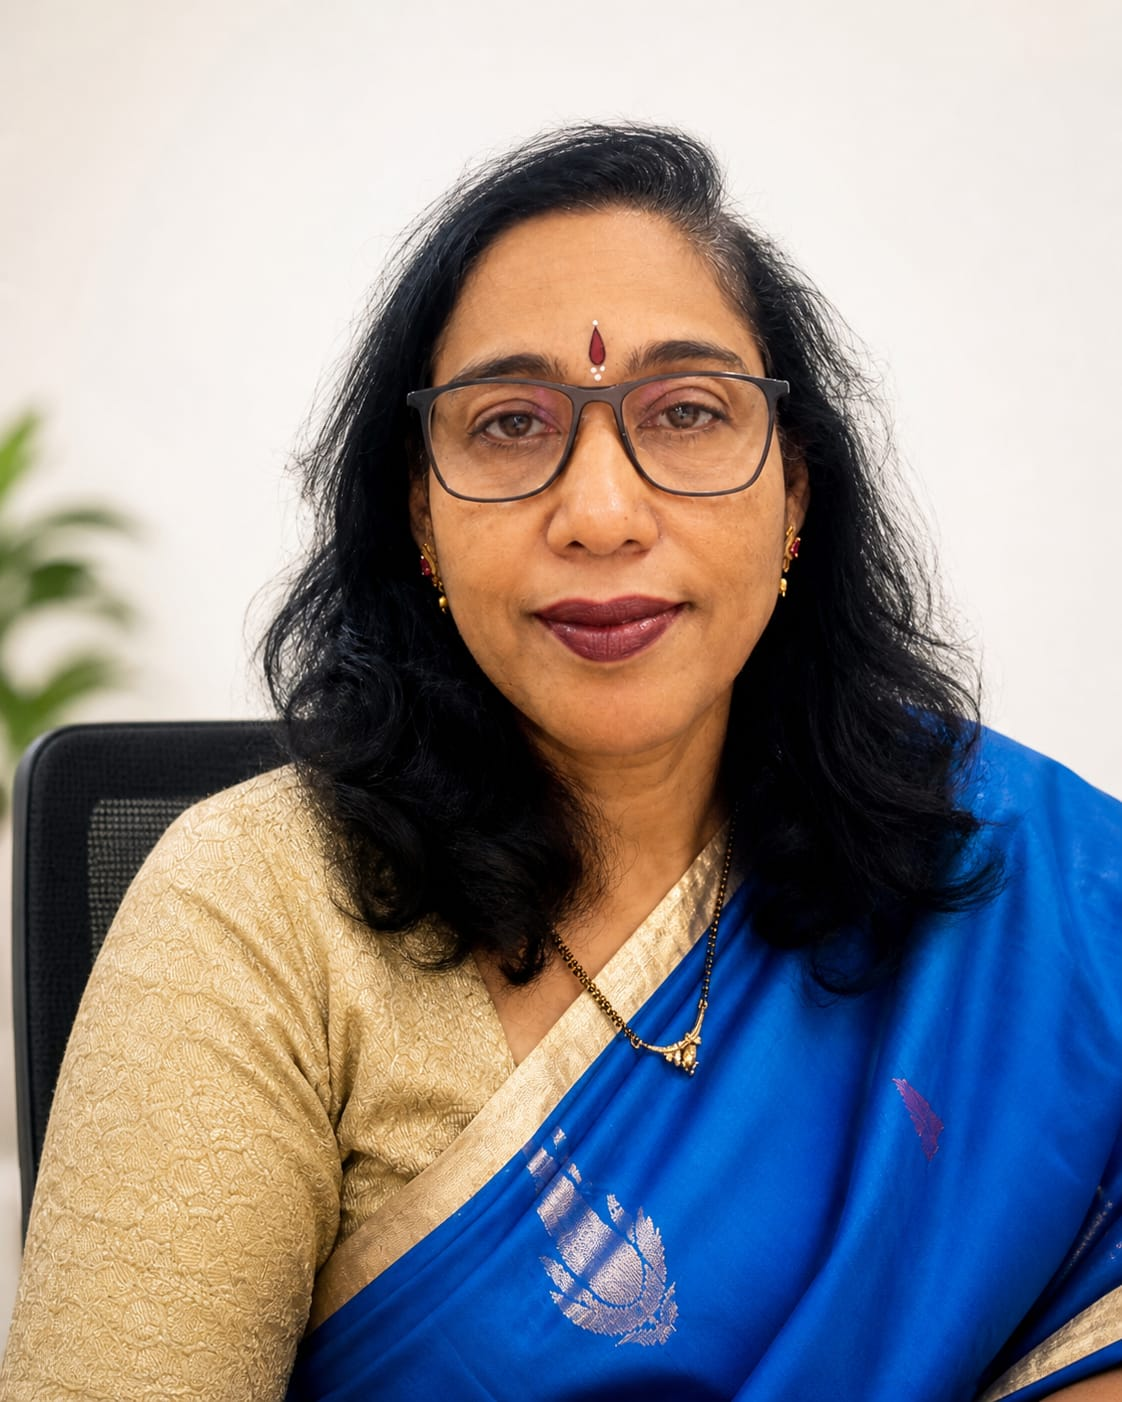
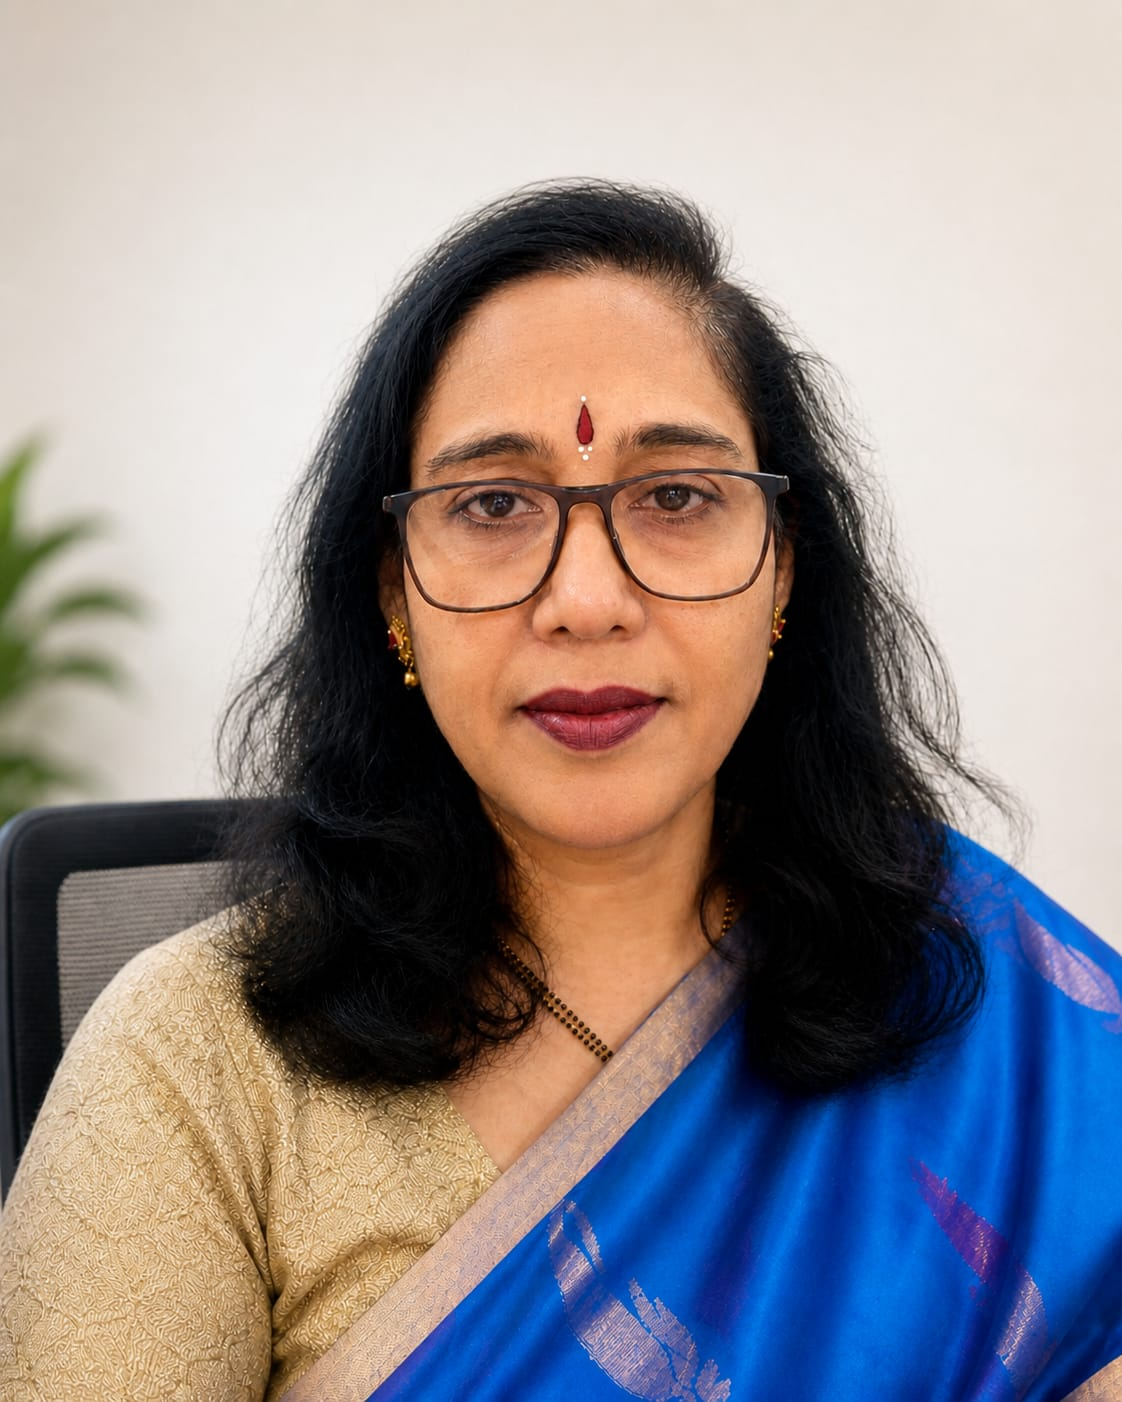
feat(leadership): activate principal entry and update chairman photo
- Replace chairman photo (jpg -> png) on slider and detail page
- Use new principal photo and uncomment principal block on /leadership
- Reorder homepage: PartnersSection moved above AboutSection

diff --git a/app/leadership/page.tsx b/app/leadership/page.tsx
@@ -1,3 +1,4 @@
+
 'use client';
 
 import Link from 'next/link';
@@ -22,7 +23,7 @@ const leaders: Leader[] = [
     slug: 'chairman',
     name: 'Chinnabathini Sagar',
     role: "Chairman's Message",
-    photo: '/images/people/chairman.jpg',
+    photo: '/images/people/chairman.png',
     greeting: 'Dear Parents and Students,',
     paragraphs: [
       'It gives me immense pleasure, joy, and pride to welcome you to Indo Global School — an institution born from a passionate dream to provide children with an education that truly empowers them to Learn, Lead, and Shine.',
@@ -43,10 +44,10 @@ const leaders: Leader[] = [
     greeting: 'Welcome to Indo Global School.',
     paragraphs: [
       'It is an honour to lead a school founded on this conviction: every child deserves a place to Learn, Lead, and Shine.',
-      'As we lay the first stones of Indo Global School, I am moved by the passion, dedication, and faith our founding team brings each day. A school is only as strong as the relationships within it — between teachers and students, between parents and the school, and among the children themselves.',
-      'At Indo Global School, learning reaches far beyond the page. We integrate global best practices with the strength of our roots. Our students study the world while remaining grounded in the values, languages, and traditions that make our community what it is.',
-      'Our goal is to equip students to navigate both textbooks and the real world with confidence, kindness, and the courage to drive positive change. Every morning when children walk through our gates, we are reminded of the responsibility we carry — and the privilege it is.',
-      'To our parents: thank you for the trust you have placed in us. To our students: this is your home to grow, to question, to discover, and to become the best version of yourselves.',
+      'As we lay the first stones of Indo Global School, I am moved by the passion, dedication, and faith our founding team brings each day.',
+      'At Indo Global School, learning reaches far beyond the page. We integrate global best practices with the strength of our roots.',
+      'Our goal is to equip students to navigate both textbooks and the real world with confidence, kindness, and the courage to drive positive change.',
+      'To our parents: thank you for the trust you have placed in us. To our students: this is your home to grow.',
       'Our journey has just begun, and together, we look forward to a future of growth, achievement, and excellence.',
     ],
     signoff: 'Warm regards,',
@@ -97,7 +98,7 @@ export default function LeadershipPage() {
               <span className="block italic text-primary">Leadership.</span>
             </h1>
             <p className="mt-6 md:mt-8 text-[15px] md:text-[17px] text-muted-foreground max-w-[40rem] leading-[1.75]">
-              Full messages from our Chairman and Principal — on the founding belief
+              The full message from our Chairman — on the founding belief
               that shapes Indo Global School, and the journey we invite you to share with us.
             </p>
           </motion.header>

diff --git a/components/LeadershipMessage.tsx b/components/LeadershipMessage.tsx
@@ -12,7 +12,7 @@ const leaders = [
     slug: 'chairman',
     name: 'Chinnabathini Sagar',
     role: 'Chairman',
-    photo: '/images/people/chairman.jpg',
+    photo: '/images/people/chairman.png',
     excerpt:
       'Indo Global School was born from a passionate dream — to provide children with an education that truly empowers them to Learn, Lead, and Shine. Every child carries within them a spark of brilliance waiting to be discovered.',
     pull: 'We do not make promises — we simply do justice to our responsibilities.',

diff --git a/app/page.tsx b/app/page.tsx
@@ -22,12 +22,13 @@ export default function Home() {
       <main id="main-content" className="min-h-screen">
         <HeroSection />
         <LeadershipMessage />
+        <PartnersSection />
         <AboutSection />
         <MissionVisionPhilosophy />
         <WhyChooseIGS />
         <CurriculumSection />
         <CampusHighlights />
-        <PartnersSection />
+        
         <VideoShowcase />
         <LocationSection />
         <ContactSection />
